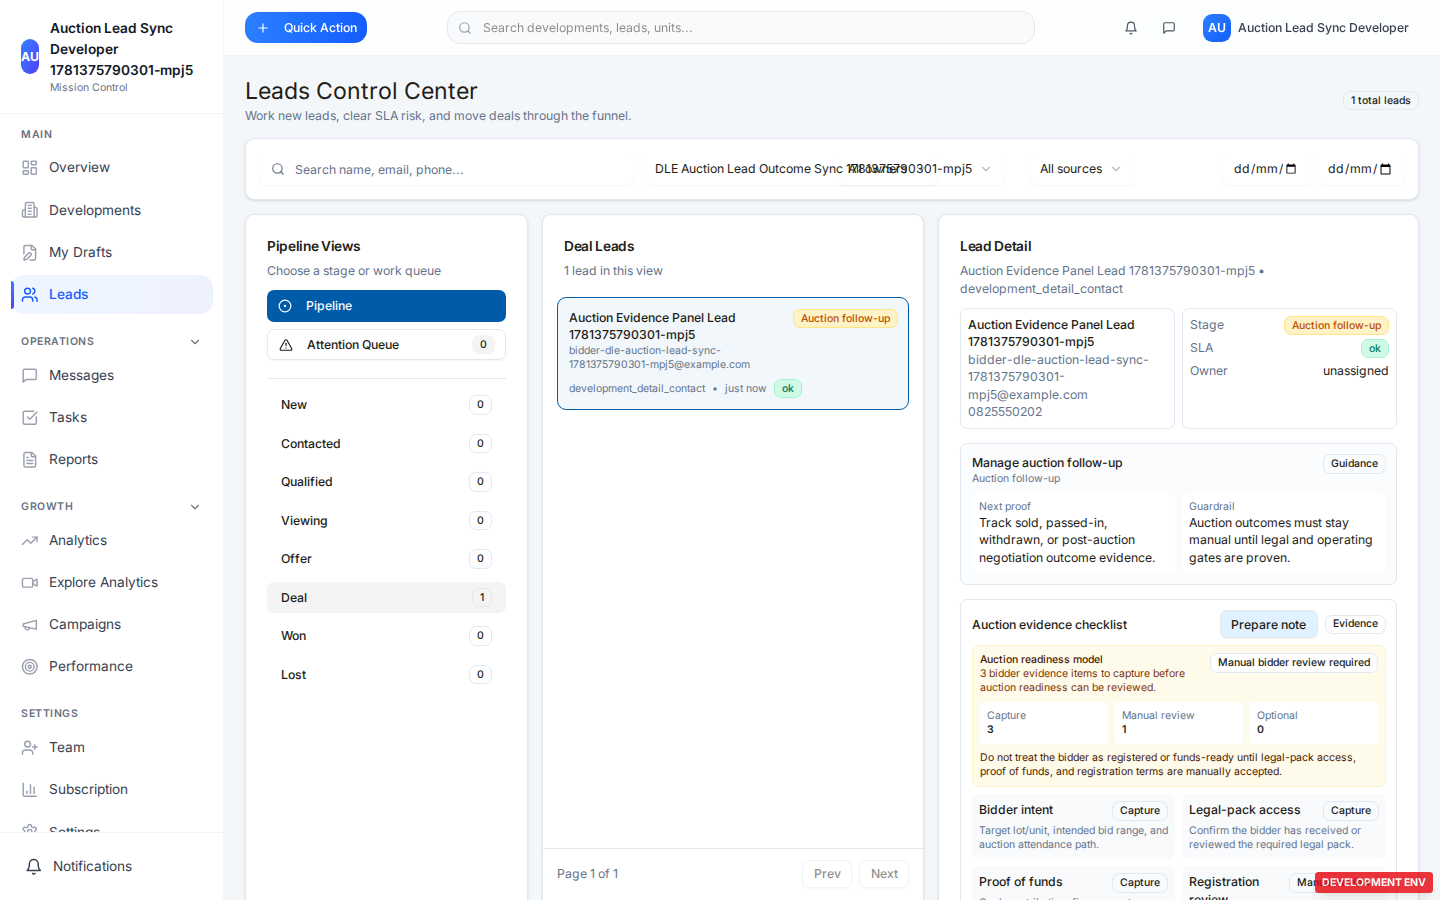
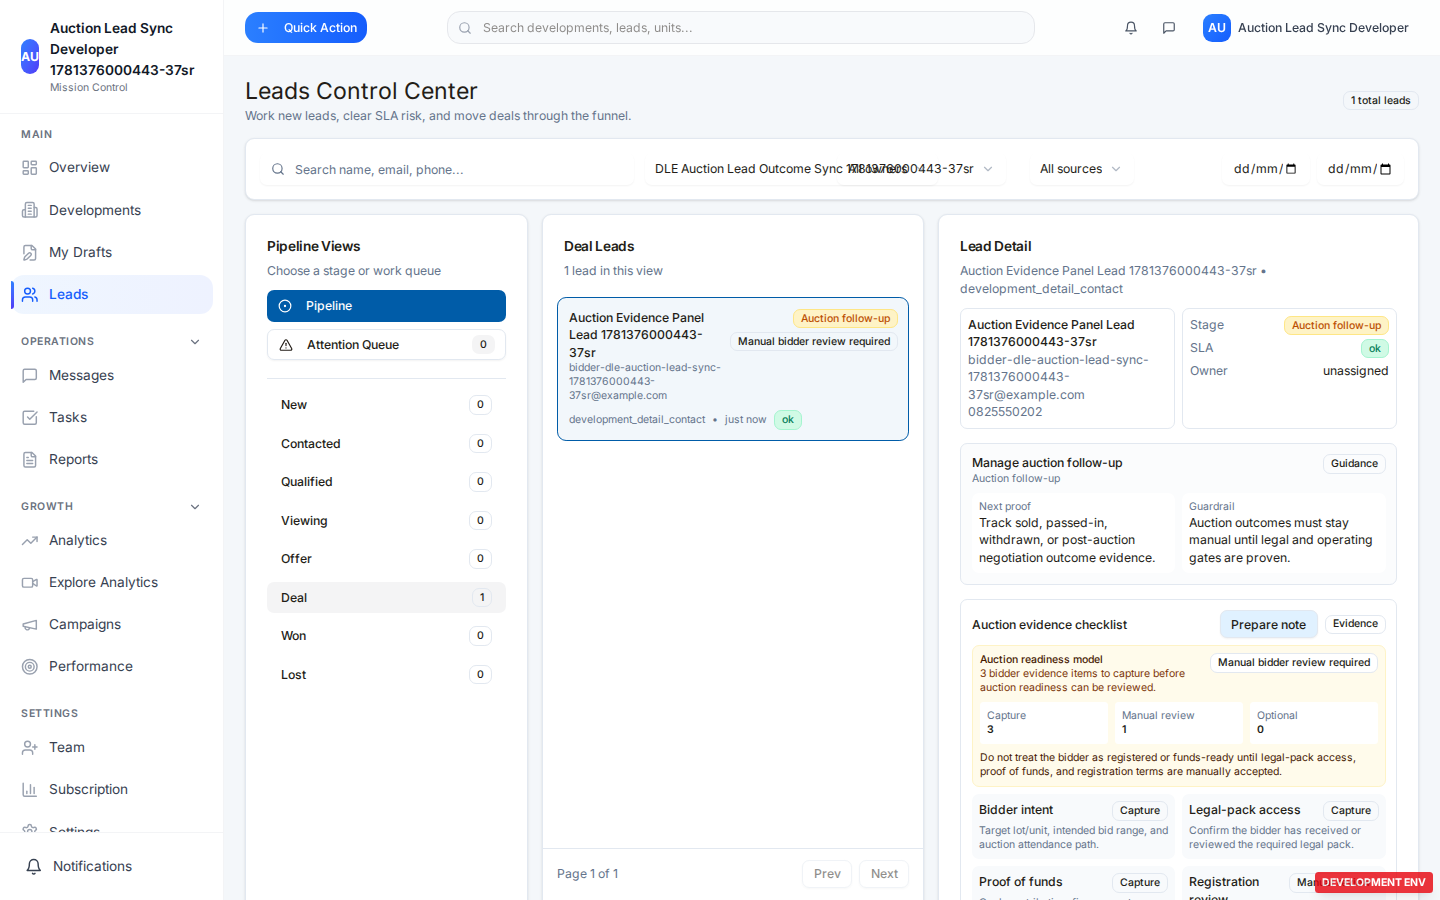
feat(dle): show lead queue evidence readiness

diff --git a/client/src/components/developer/LeadsManager.tsx b/client/src/components/developer/LeadsManager.tsx
@@ -747,6 +747,7 @@ export default function LeadsManager() {
                         lead.affordabilityData,
                         leadTransactionType,
                       );
+                      const evidenceReadiness = getLeadEvidenceReadinessSummary(leadTransactionType);
 
                       return (
                         <button
@@ -786,6 +787,12 @@ export default function LeadsManager() {
                                   {qualificationDisplay.modelLabel}
                                 </Badge>
                               )}
+                              <Badge
+                                data-testid={`dle-lead-evidence-readiness-label-${lead.id}`}
+                                variant="outline"
+                              >
+                                {evidenceReadiness.statusLabel}
+                              </Badge>
                             </div>
                           </div>
 

diff --git a/e2e/dle/lead-outcome-sync.spec.ts b/e2e/dle/lead-outcome-sync.spec.ts
@@ -611,6 +611,9 @@ test.describe.serial('DLE lead outcome sync browser proof', () => {
     await expect(page.getByRole('heading', { name: 'Leads Control Center' })).toBeVisible({
       timeout: 15_000,
     });
+    await expect(
+      page.getByTestId(`dle-lead-evidence-readiness-label-${rentalSeed.leadId}`),
+    ).toContainText('Manual lease review required');
     await expect(page.getByTestId(`dle-lead-stage-guidance-${rentalSeed.leadId}`)).toContainText(
       'Complete lease review',
     );
@@ -667,6 +670,9 @@ test.describe.serial('DLE lead outcome sync browser proof', () => {
       `/developer/leads?developmentId=${auctionSeed.developmentId}&stage=deal&leadId=${auctionSeed.leadId}`,
     );
     await expect(page.getByText(auctionSeed.leadName).first()).toBeVisible({ timeout: 15_000 });
+    await expect(
+      page.getByTestId(`dle-lead-evidence-readiness-label-${auctionSeed.leadId}`),
+    ).toContainText('Manual bidder review required');
     await expect(page.getByTestId(`dle-lead-stage-guidance-${auctionSeed.leadId}`)).toContainText(
       'Manage auction follow-up',
     );

diff --git a/docs/dle/RECOVERY_LOG.md b/docs/dle/RECOVERY_LOG.md
@@ -6531,3 +6531,46 @@ Next recommended slice:
   visibility using the current non-mutating readiness summaries.
 Commit hash/tag: Included in `feat(dle): summarize lead evidence readiness`.
 Uncommitted reason, if any: None.
+
+## 2026-06-13 - Lead Queue Evidence Readiness Labels
+
+Date: 2026-06-13
+Branch: refine/homepage-phase1-clarity-trust
+Goal: Make Rental and Auction evidence readiness visible in the lead queue, not only inside the
+selected lead detail panel.
+Files changed:
+- client/src/components/developer/LeadsManager.tsx
+- e2e/dle/lead-outcome-sync.spec.ts
+- docs/dle/TRANSACTION_ENGINE_PRODUCT_EXPERIENCE_AUDIT.md
+- docs/dle/RECOVERY_LOG.md
+Tests run:
+- `pnpm run check` passed.
+- `pnpm vitest run client/src/components/developer/leadEvidenceChecklist.test.ts` passed with 7 tests.
+- `PLAYWRIGHT_SKIP_WEBSERVER=1 BASE_URL=http://localhost:3009 pnpm exec playwright test e2e/dle/lead-outcome-sync.spec.ts --project="Desktop Chrome" --workers=1 -g "renders transaction evidence panels"` passed with 1 test.
+- `git diff --check` passed.
+Functional proof:
+- Lead queue rows now show the transaction-specific evidence readiness status from
+  `getLeadEvidenceReadinessSummary`.
+- Rental lead rows show `Manual lease review required`.
+- Auction lead rows show `Manual bidder review required`.
+- Focused browser proof verifies the Rental and Auction queue labels before checking the detail
+  evidence panel.
+Guardrails:
+- No schema, migration, persisted document checklist, evidence completion state, readiness
+  transition, lead-stage movement, distribution gate, reward automation, autosave, draft, publish,
+  inventory, or public listing behavior is intended in this slice.
+- The lead queue label is display-only; it does not approve leases, register bidders, verify proof
+  of funds, mark evidence complete, or mutate inventory.
+- Existing unrelated homepage files, older evidence screenshots, Playwright report output, and
+  unrelated test-results changes must not be staged.
+Remaining risks:
+- Rental still needs persisted document capture and lease application review semantics before the
+  queue can show true evidence completion state.
+- Auction still needs persisted bidder registration, legal-pack acceptance, and proof-of-funds
+  workflow semantics before the queue can show true bidder readiness state.
+- Broader dashboard aggregation and audit history remain future.
+Next recommended slice:
+- Either define the persisted evidence artifact model for Rental/Auction or add a non-mutating
+  dashboard aggregate that counts leads needing manual lease/bidder review.
+Commit hash/tag: Included in `feat(dle): show lead queue evidence readiness`.
+Uncommitted reason, if any: None.

diff --git a/docs/dle/TRANSACTION_ENGINE_PRODUCT_EXPERIENCE_AUDIT.md b/docs/dle/TRANSACTION_ENGINE_PRODUCT_EXPERIENCE_AUDIT.md
@@ -573,6 +573,24 @@ This is not a persisted document checklist. It does not upload documents, mark e
 approve leases, register bidders, verify proof of funds, move lead stages, or enable distribution
 reward automation.
 
+## Thirty-First Product-Visibility Slice
+
+Surface evidence readiness in the lead queue.
+
+The developer lead list now shows the same transaction-specific evidence readiness status used by
+the detail panel:
+
+- Rental lead rows show `Manual lease review required`;
+- Auction lead rows show `Manual bidder review required`;
+- Sale lead rows show `Manual sale review required`.
+
+Focused browser proof verifies the Rental and Auction readiness labels before the operator opens the
+lead detail panel. This makes operating risk visible at the queue level and helps developers triage
+Rental/Auction leads without relying only on generic stage or SLA labels.
+
+This remains display-only. It does not mutate lead stage, inventory, readiness state, distribution
+eligibility, payout/reward state, or evidence completion.
+
 ## Remaining Product Gaps
 
 - Deepen Rental qualification beyond model metadata into proof-of-income capture, document
@@ -591,8 +609,9 @@ reward automation.
   evidence checklist prompts are now present in the lead center. Evidence review can now be captured
   as lead activity notes, read back in the lead timeline, and browser-proven for Rental/Auction
   panels. Evidence readiness is now summarized as a transaction-specific manual review model, but
-  sold/let/auction outcomes, pricing adjustments, release phases, persisted structured evidence
-  capture, and deeper dashboards remain future.
+  the lead queue also surfaces the manual review status. Sold/let/auction outcomes, pricing
+  adjustments, release phases, persisted structured evidence capture, and deeper dashboards remain
+  future.
 
 ## Evidence To Attach Over Time
 
@@ -636,5 +655,7 @@ reward automation.
 - Component and browser proof that Rental/Auction evidence readiness summaries are
   transaction-specific and do not imply automatic lease/bidder approval. Status: complete for
   `leadEvidenceChecklist` helper tests and focused `lead-outcome-sync` proof.
+- Browser proof that Rental/Auction lead queue rows show transaction-specific manual evidence
+  readiness before opening lead detail. Status: complete for focused `lead-outcome-sync` proof.
 - Product screenshots showing before/after public merchandising improvements.
 - Dashboard/operations evidence when live-development management begins.